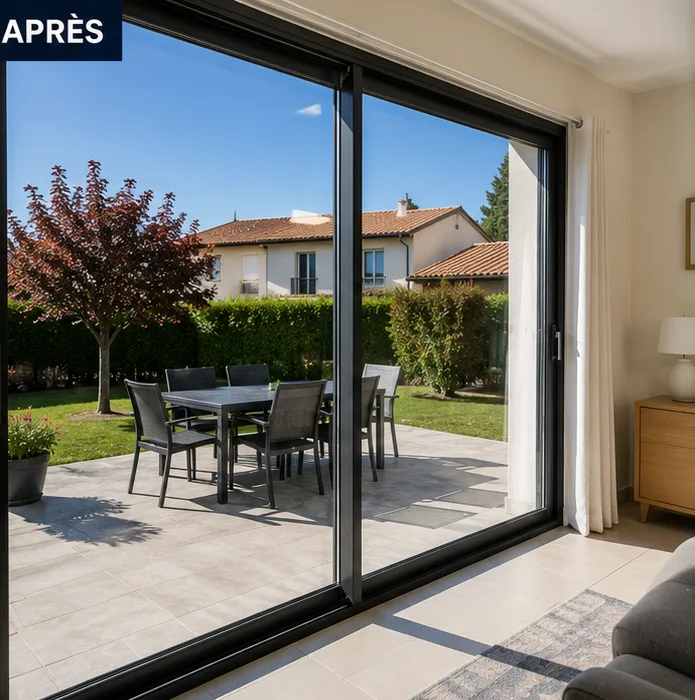
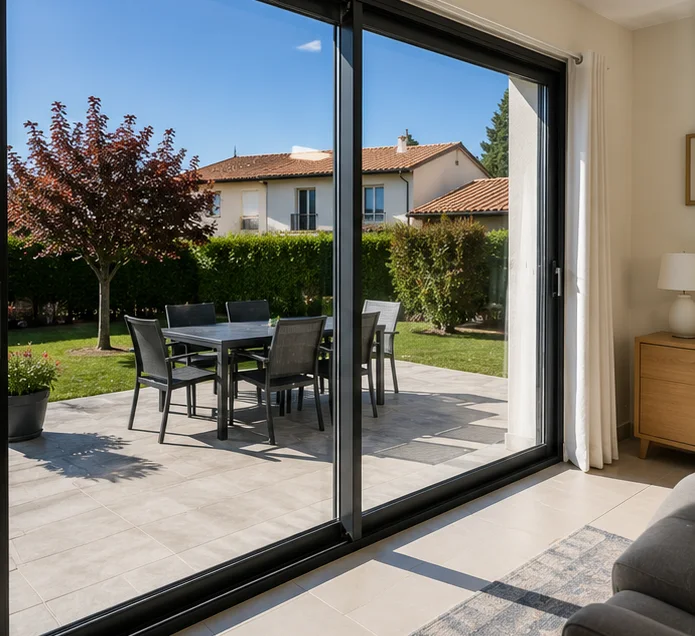
Galerie: carrousel defilant, page /realisations, photos recadrees en HD
- RealisationsCarousel: defilement auto, pause au survol/toucher, fleches
- Nouvelle page /realisations avec les 12 avant/apres + lien depuis l'accueil
- Photos d'intervention re-decoupees en haute resolution, cadrage 16/9
- Suppression des labels AVANT/APRES incrustes dans les images sources
- Realisations ajoutees au menu, au footer et au sitemap

Claude-Session: https://claude.ai/code/session_011GP2RKiQo563B2cZFwY7Ws

diff --git a/src/components/RealisationsCarousel.tsx b/src/components/RealisationsCarousel.tsx
@@ -1,0 +1,120 @@
+"use client";
+
+import { useCallback, useEffect, useRef } from "react";
+import BeforeAfterCard from "./BeforeAfterCard";
+
+type Item = { title: string; before: string; after: string };
+
+/**
+ * Galerie de réalisations qui défile en continu.
+ * Le défilement s'arrête dès que l'utilisateur interagit (survol, toucher,
+ * glissement, flèches) et reprend après un court délai d'inactivité.
+ */
+export default function RealisationsCarousel({ items }: { items: Item[] }) {
+  const scrollerRef = useRef<HTMLDivElement>(null);
+  const pausedRef = useRef(false);
+  const resumeTimer = useRef<ReturnType<typeof setTimeout> | null>(null);
+
+  // Liste dupliquée pour une boucle sans couture
+  const loop = [...items, ...items];
+
+  const pause = useCallback((autoResume = true) => {
+    pausedRef.current = true;
+    if (resumeTimer.current) clearTimeout(resumeTimer.current);
+    if (autoResume) {
+      resumeTimer.current = setTimeout(() => {
+        pausedRef.current = false;
+      }, 2500);
+    }
+  }, []);
+
+  const resume = useCallback(() => {
+    if (resumeTimer.current) clearTimeout(resumeTimer.current);
+    resumeTimer.current = setTimeout(() => {
+      pausedRef.current = false;
+    }, 600);
+  }, []);
+
+  // Défilement automatique
+  useEffect(() => {
+    const el = scrollerRef.current;
+    if (!el) return;
+    const reduced = window.matchMedia("(prefers-reduced-motion: reduce)").matches;
+    if (reduced) return;
+
+    let raf = 0;
+    let last = performance.now();
+    const speed = 40; // px par seconde
+
+    const tick = (now: number) => {
+      const dt = (now - last) / 1000;
+      last = now;
+      if (!pausedRef.current) {
+        el.scrollLeft += speed * dt;
+        // Boucle : on revient au début quand la 1re copie est passée
+        const half = el.scrollWidth / 2;
+        if (half > 0 && el.scrollLeft >= half) el.scrollLeft -= half;
+      }
+      raf = requestAnimationFrame(tick);
+    };
+    raf = requestAnimationFrame(tick);
+    return () => cancelAnimationFrame(raf);
+  }, []);
+
+  const scrollByCard = (dir: 1 | -1) => {
+    const el = scrollerRef.current;
+    if (!el) return;
+    pause();
+    const card = el.querySelector<HTMLElement>("[data-card]");
+    const step = card ? card.offsetWidth + 24 : el.clientWidth * 0.8;
+    el.scrollBy({ left: dir * step, behavior: "smooth" });
+  };
+
+  return (
+    <div className="group relative">
+      <div
+        ref={scrollerRef}
+        className="no-scrollbar -mx-6 flex snap-x snap-mandatory gap-6 overflow-x-auto scroll-smooth px-6 py-2"
+        onMouseEnter={() => pause(false)}
+        onMouseLeave={resume}
+        onPointerDown={() => pause(false)}
+        onPointerUp={resume}
+        onTouchStart={() => pause(false)}
+        onTouchEnd={resume}
+        onWheel={() => pause()}
+      >
+        {loop.map((item, i) => (
+          <div
+            key={`${item.title}-${i}`}
+            data-card
+            className="w-[280px] shrink-0 snap-start sm:w-[340px]"
+          >
+            <BeforeAfterCard {...item} showHint={false} />
+          </div>
+        ))}
+      </div>
+
+      {/* Flèches de navigation */}
+      <button
+        type="button"
+        aria-label="Réalisations précédentes"
+        onClick={() => scrollByCard(-1)}
+        className="absolute -left-1 top-1/2 z-10 hidden -translate-y-1/2 items-center justify-center rounded-full bg-white p-2.5 text-navy shadow-lg ring-1 ring-navy/10 transition hover:bg-brand hover:text-white sm:flex"
+      >
+        <svg width="18" height="18" viewBox="0 0 24 24" fill="none" stroke="currentColor" strokeWidth="2.5">
+          <path d="M15 18l-6-6 6-6" strokeLinecap="round" strokeLinejoin="round" />
+        </svg>
+      </button>
+      <button
+        type="button"
+        aria-label="Réalisations suivantes"
+        onClick={() => scrollByCard(1)}
+        className="absolute -right-1 top-1/2 z-10 hidden -translate-y-1/2 items-center justify-center rounded-full bg-white p-2.5 text-navy shadow-lg ring-1 ring-navy/10 transition hover:bg-brand hover:text-white sm:flex"
+      >
+        <svg width="18" height="18" viewBox="0 0 24 24" fill="none" stroke="currentColor" strokeWidth="2.5">
+          <path d="M9 18l6-6-6-6" strokeLinecap="round" strokeLinejoin="round" />
+        </svg>
+      </button>
+    </div>
+  );
+}

diff --git a/src/app/realisations/page.tsx b/src/app/realisations/page.tsx
@@ -1,0 +1,78 @@
+import type { Metadata } from "next";
+import Link from "next/link";
+import BeforeAfterCard from "@/components/BeforeAfterCard";
+import Reveal from "@/components/Reveal";
+import Particles from "@/components/Particles";
+import { beforeAfterGallery, siteConfig } from "@/lib/site-data";
+
+export const metadata: Metadata = {
+  title: "Nos réalisations — Avant / après à Caen",
+  description:
+    "Découvrez les réalisations de Propre Éclat à Caen et alentours : nettoyage de vitres, bureaux, copropriétés et fin de chantier, en photos avant / après.",
+  alternates: { canonical: "/realisations" },
+};
+
+export default function RealisationsPage() {
+  return (
+    <div>
+      {/* Hero */}
+      <section className="relative overflow-hidden bg-gradient-to-br from-navy via-navy to-navy-light">
+        <div aria-hidden="true" className="animate-drift-a absolute -left-24 -top-24 h-80 w-80 rounded-full bg-brand/25 blur-3xl" />
+        <div aria-hidden="true" className="animate-drift-b absolute -bottom-32 right-0 h-96 w-96 rounded-full bg-brand/15 blur-3xl" />
+        <Particles />
+        <div
+          aria-hidden="true"
+          className="absolute inset-0 opacity-[0.04]"
+          style={{ backgroundImage: "radial-gradient(circle, white 1px, transparent 1px)", backgroundSize: "28px 28px" }}
+        />
+        <div className="relative mx-auto max-w-3xl px-6 py-16 text-center md:py-20">
+          <nav aria-label="Fil d'Ariane" className="text-sm text-cream/70">
+            <Link href="/" className="hover:text-white">Accueil</Link>
+            <span className="mx-2">/</span>
+            <span className="text-white">Réalisations</span>
+          </nav>
+          <h1 className="animate-hero-in mt-4 text-4xl font-bold leading-tight text-white sm:text-5xl">
+            Nos réalisations à Caen
+          </h1>
+          <p className="animate-hero-in mx-auto mt-5 max-w-2xl text-lg leading-relaxed text-cream/85" style={{ animationDelay: "0.15s" }}>
+            {beforeAfterGallery.length} interventions en photos, avant et après.
+            Glissez chaque image pour voir la différence.
+          </p>
+        </div>
+      </section>
+
+      {/* Galerie complète */}
+      <section className="mx-auto max-w-6xl px-6 py-16">
+        <div className="grid gap-6 sm:grid-cols-2 lg:grid-cols-3">
+          {beforeAfterGallery.map((item, i) => (
+            <Reveal key={item.title} delay={(i % 3) * 80}>
+              <BeforeAfterCard {...item} showHint={false} />
+            </Reveal>
+          ))}
+        </div>
+        <p className="mt-8 flex items-center justify-center gap-2 text-center text-sm text-navy/60">
+          <svg width="18" height="18" viewBox="0 0 24 24" fill="none" stroke="currentColor" strokeWidth="2" className="text-brand">
+            <path d="M8 7l-5 5 5 5M16 7l5 5-5 5" strokeLinecap="round" strokeLinejoin="round" />
+          </svg>
+          Glissez les images pour comparer l&apos;avant / après
+        </p>
+      </section>
+
+      {/* CTA */}
+      <section className="px-6 pb-16">
+        <div className="mx-auto max-w-3xl rounded-2xl bg-gradient-to-br from-navy via-navy to-navy-light p-8 text-center shadow-xl">
+          <h2 className="text-2xl font-bold text-white sm:text-3xl">
+            Envie du même résultat chez vous ?
+          </h2>
+          <p className="mx-auto mt-3 max-w-xl text-cream/80">
+            Devis gratuit et sans engagement, à Caen et dans un rayon de {siteConfig.serviceRadiusKm} km.
+          </p>
+          <div className="mt-6 flex flex-wrap items-center justify-center gap-4">
+            <Link href="/contact" className="btn btn-primary">Demander un devis</Link>
+            <a href={siteConfig.phoneHref} className="btn btn-ghost">{siteConfig.phone}</a>
+          </div>
+        </div>
+      </section>
+    </div>
+  );
+}

diff --git a/src/app/page.tsx b/src/app/page.tsx
@@ -1,6 +1,6 @@
 import Image from "next/image";
 import Link from "next/link";
-import BeforeAfterCard from "@/components/BeforeAfterCard";
+import RealisationsCarousel from "@/components/RealisationsCarousel";
 import GoogleReviewsSection from "@/components/GoogleReviewsSection";
 import FaqSection from "@/components/FaqSection";
 import JsonLd from "@/components/JsonLd";
@@ -11,9 +11,6 @@ import WhyUsSection from "@/components/WhyUsSection";
 import ProcessSection from "@/components/ProcessSection";
 import { beforeAfterGallery, services, siteConfig } from "@/lib/site-data";
 import { getFaqSchema } from "@/lib/structured-data";
-
-// Réalisations mises en avant sur la page d'accueil
-const homeGallery = beforeAfterGallery.slice(0, 3);
 
 export default function Home() {
   return (
@@ -170,12 +167,8 @@ export default function Home() {
             Un aperçu avant / après de nos interventions récentes.
           </p>
         </Reveal>
-        <div className="mt-10 grid gap-6 sm:grid-cols-2 lg:grid-cols-3">
-          {homeGallery.map((item, i) => (
-            <Reveal key={item.title} delay={i * 90}>
-              <BeforeAfterCard {...item} showHint={false} />
-            </Reveal>
-          ))}
+        <div className="mt-10">
+          <RealisationsCarousel items={beforeAfterGallery} />
         </div>
         <p className="mt-8 flex items-center justify-center gap-2 text-center text-sm text-navy/60">
           <svg width="18" height="18" viewBox="0 0 24 24" fill="none" stroke="currentColor" strokeWidth="2" className="text-brand">
@@ -183,6 +176,17 @@ export default function Home() {
           </svg>
           Glissez les images pour comparer l&apos;avant / après
         </p>
+        <div className="mt-4 text-center">
+          <Link
+            href="/realisations"
+            className="inline-flex items-center gap-1.5 text-sm font-semibold text-brand-dark hover:underline"
+          >
+            Voir toutes nos réalisations
+            <svg width="16" height="16" viewBox="0 0 20 20" fill="none" stroke="currentColor" strokeWidth="2">
+              <path d="M4 10h11M11 5l5 5-5 5" strokeLinecap="round" strokeLinejoin="round" />
+            </svg>
+          </Link>
+        </div>
       </section>
 
       <Reveal>

diff --git a/src/app/a-propos/page.tsx b/src/app/a-propos/page.tsx
@@ -168,14 +168,15 @@ export default function AboutPage() {
       <section className="mx-auto max-w-3xl px-6 pb-4">
         <Reveal>
           <figure className="overflow-hidden rounded-3xl shadow-xl shadow-navy/10 ring-1 ring-navy/5">
-            <Image
-              src="/images/equipe/agent-bureaux.webp"
-              alt="Agent Propre Éclat en intervention dans des bureaux à Caen"
-              width={1536}
-              height={1024}
-              className="h-auto w-full object-cover"
-              sizes="(max-width: 768px) 100vw, 768px"
-            />
+            <div className="relative aspect-[16/9]">
+              <Image
+                src="/images/equipe/agent-bureaux.webp"
+                alt="Agent Propre Éclat en intervention dans des bureaux à Caen"
+                fill
+                className="object-cover object-center"
+                sizes="(max-width: 768px) 100vw, 768px"
+              />
+            </div>
             <figcaption className="bg-white px-5 py-3 text-center text-sm text-navy/60">
               Une intervention Propre Éclat : le souci du détail, à chaque passage.
             </figcaption>

diff --git a/src/app/[servicePage]/page.tsx b/src/app/[servicePage]/page.tsx
@@ -147,13 +147,12 @@ export default async function ServiceLandingPage({
       {content.photo && (
         <section className="mx-auto -mt-10 max-w-3xl px-6">
           <Reveal>
-            <div className="overflow-hidden rounded-3xl shadow-xl shadow-navy/10 ring-1 ring-navy/5">
+            <div className="relative aspect-[16/9] overflow-hidden rounded-3xl shadow-xl shadow-navy/10 ring-1 ring-navy/5">
               <Image
                 src={content.photo.src}
                 alt={content.photo.alt}
-                width={1200}
-                height={800}
-                className="h-auto w-full object-cover"
+                fill
+                className="object-cover object-center"
                 sizes="(max-width: 768px) 100vw, 768px"
               />
             </div>

diff --git a/src/app/sitemap.ts b/src/app/sitemap.ts
@@ -5,7 +5,7 @@ export default function sitemap(): MetadataRoute.Sitemap {
   const lastModified = new Date();
 
   // Pages principales indexables (les pages légales sont en noindex)
-  const mainRoutes = ["", "/a-propos", "/services", "/contact"].map((route) => ({
+  const mainRoutes = ["", "/a-propos", "/services", "/realisations", "/contact"].map((route) => ({
     url: `${siteConfig.url}${route}`,
     lastModified,
     changeFrequency: (route === "" ? "weekly" : "monthly") as "weekly" | "monthly",

diff --git a/src/components/Footer.tsx b/src/components/Footer.tsx
@@ -73,6 +73,7 @@ export default function Footer() {
               { href: "/", label: "Accueil" },
               { href: "/a-propos", label: "À propos" },
               { href: "/services", label: "Services" },
+              { href: "/realisations", label: "Réalisations" },
               { href: "/contact", label: "Contact" },
               { href: "/mentions-legales", label: "Mentions légales" },
               { href: "/politique-de-confidentialite", label: "Confidentialité" },

diff --git a/src/components/Header.tsx b/src/components/Header.tsx
@@ -9,6 +9,7 @@ const navLinks = [
   { href: "/", label: "Accueil" },
   { href: "/a-propos", label: "À propos" },
   { href: "/services", label: "Services" },
+  { href: "/realisations", label: "Réalisations" },
   { href: "/contact", label: "Contact" },
 ];
 
